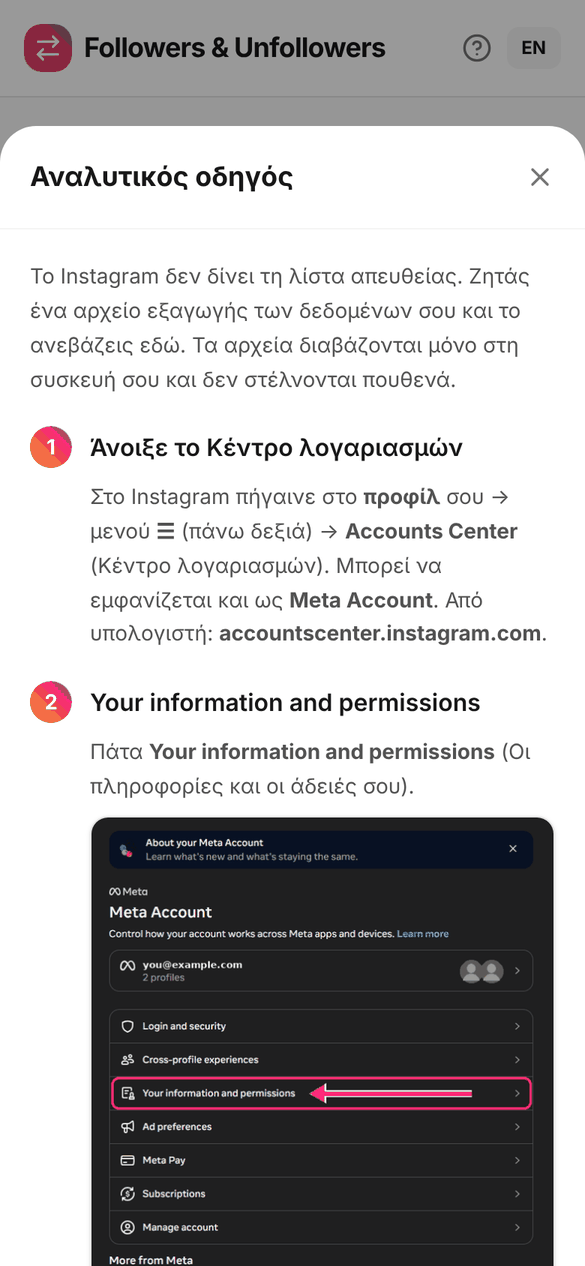
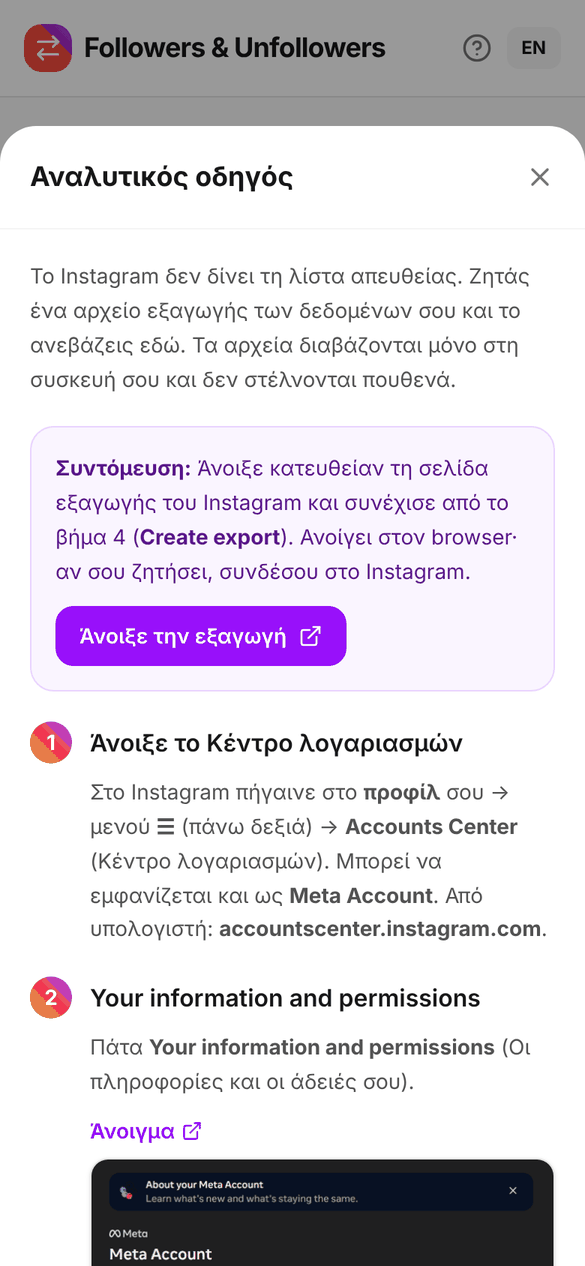
v1.5.0
- Direct links to Instagram's export page (home card, guide shortcut, per-step 'Open' links)
- README: shortcut link, refreshed screenshots

diff --git a/src/Guide.tsx b/src/Guide.tsx
@@ -1,6 +1,10 @@
 import { useEffect } from 'react';
 import { motion, AnimatePresence } from 'motion/react';
-import { X } from 'lucide-react';
+import { X, ExternalLink } from 'lucide-react';
+
+// Direct links into Instagram's Accounts Center (open in the browser; may ask to log in)
+export const IG_INFO_URL = 'https://accountscenter.instagram.com/info_and_permissions/';
+export const IG_EXPORT_URL = 'https://accountscenter.instagram.com/info_and_permissions/dyi/';
 
 type Language = 'el' | 'en';
 
@@ -9,13 +13,19 @@ interface GuideStep {
   body: string;
   /** Optional screenshot, path relative to the site root (e.g. 'guide/step-1.jpg') */
   image?: string;
+  /** Optional direct link that skips to this screen */
+  link?: string;
 }
 
-const content: Record<Language, { heading: string; intro: string; close: string; tip: string; steps: GuideStep[]; dataTitle: string; dataItems: string[] }> = {
+const content: Record<Language, { heading: string; intro: string; close: string; tip: string; steps: GuideStep[]; dataTitle: string; dataItems: string[]; shortcutTitle: string; shortcutBody: string; shortcutButton: string; openLink: string }> = {
   el: {
     heading: 'Αναλυτικός οδηγός',
     intro: 'Το Instagram δεν δίνει τη λίστα απευθείας. Ζητάς ένα αρχείο εξαγωγής των δεδομένων σου και το ανεβάζεις εδώ. Τα αρχεία διαβάζονται μόνο στη συσκευή σου και δεν στέλνονται πουθενά.',
     close: 'Κλείσιμο',
+    shortcutTitle: 'Συντόμευση',
+    shortcutBody: 'Άνοιξε κατευθείαν τη σελίδα εξαγωγής του Instagram και συνέχισε από το βήμα 4 (<b>Create export</b>). Ανοίγει στον browser· αν σου ζητήσει, συνδέσου στο Instagram.',
+    shortcutButton: 'Άνοιξε την εξαγωγή',
+    openLink: 'Άνοιγμα',
     tip: 'Οι εικόνες είναι από το Instagram στα αγγλικά. Τα ονόματα των μενού μπορεί να διαφέρουν λίγο ανάλογα με την έκδοση και τη γλώσσα.',
     dataTitle: 'Πού αποθηκεύονται τα δεδομένα',
     dataItems: [
@@ -33,11 +43,13 @@ const content: Record<Language, { heading: string; intro: string; close: string;
         title: 'Your information and permissions',
         body: 'Πάτα <b>Your information and permissions</b> (Οι πληροφορίες και οι άδειές σου).',
         image: 'guide/step-1.png',
+        link: IG_INFO_URL,
       },
       {
         title: 'Export your information',
         body: 'Πάτα <b>Export your information</b> (Εξαγωγή των πληροφοριών σου).',
         image: 'guide/step-2.png',
+        link: IG_EXPORT_URL,
       },
       {
         title: 'Create export',
@@ -63,6 +75,7 @@ const content: Record<Language, { heading: string; intro: string; close: string;
         title: 'Περίμενε και κατέβασε',
         body: 'Η εξαγωγή μπορεί να πάρει από λίγα λεπτά έως αρκετές ώρες. Όταν είναι έτοιμη θα λάβεις ειδοποίηση. Γύρνα στο <b>Export your information</b> και κατέβασε το αρχείο <b>.zip</b>. Έχεις <b>4 μέρες</b> για να το κατεβάσεις.',
         image: 'guide/step-7.png',
+        link: IG_EXPORT_URL,
       },
       {
         title: 'Ανέβασέ το εδώ',
@@ -78,6 +91,10 @@ const content: Record<Language, { heading: string; intro: string; close: string;
     heading: 'Step-by-step guide',
     intro: "Instagram doesn't show this list directly. You request an export of your data and upload it here. Files are read only on your device and are never sent anywhere.",
     close: 'Close',
+    shortcutTitle: 'Shortcut',
+    shortcutBody: 'Open Instagram\'s export page directly and continue from step 4 (<b>Create export</b>). It opens in your browser; log in to Instagram if asked.',
+    shortcutButton: 'Open the export page',
+    openLink: 'Open',
     tip: 'Screenshots are from Instagram in English. Menu names may differ slightly depending on the version and language.',
     dataTitle: 'Where your data is kept',
     dataItems: [
@@ -95,11 +112,13 @@ const content: Record<Language, { heading: string; intro: string; close: string;
         title: 'Your information and permissions',
         body: 'Tap <b>Your information and permissions</b>.',
         image: 'guide/step-1.png',
+        link: IG_INFO_URL,
       },
       {
         title: 'Export your information',
         body: 'Tap <b>Export your information</b>.',
         image: 'guide/step-2.png',
+        link: IG_EXPORT_URL,
       },
       {
         title: 'Create export',
@@ -125,6 +144,7 @@ const content: Record<Language, { heading: string; intro: string; close: string;
         title: 'Wait and download',
         body: 'The export can take from a few minutes to several hours. You will get a notification when it is ready. Go back to <b>Export your information</b> and download the <b>.zip</b> file. You have <b>4 days</b> to download it.',
         image: 'guide/step-7.png',
+        link: IG_EXPORT_URL,
       },
       {
         title: 'Upload it here',
@@ -188,6 +208,21 @@ export default function Guide({ open, onClose, language }: { open: boolean; onCl
             <div className="overflow-y-auto px-5 py-5 space-y-5">
               <p className="text-sm text-neutral-600 leading-relaxed">{c.intro}</p>
 
+              <div className="rounded-2xl border border-purple-200 bg-purple-50 p-4 space-y-3">
+                <p className="text-sm text-purple-900 leading-relaxed">
+                  <b>{c.shortcutTitle}:</b> <span dangerouslySetInnerHTML={{ __html: c.shortcutBody }} />
+                </p>
+                <a
+                  href={IG_EXPORT_URL}
+                  target="_blank"
+                  rel="noopener noreferrer"
+                  className="inline-flex items-center gap-2 rounded-xl bg-purple-600 px-4 py-2.5 text-sm font-semibold text-white hover:bg-purple-700 transition-colors"
+                >
+                  {c.shortcutButton}
+                  <ExternalLink className="w-4 h-4" />
+                </a>
+              </div>
+
               <ol className="space-y-5">
                 {c.steps.map((step, i) => (
                   <li key={i} className="flex gap-3">
@@ -200,6 +235,17 @@ export default function Guide({ open, onClose, language }: { open: boolean; onCl
                         className="text-sm text-neutral-600 leading-relaxed"
                         dangerouslySetInnerHTML={{ __html: step.body }}
                       />
+                      {step.link && (
+                        <a
+                          href={step.link}
+                          target="_blank"
+                          rel="noopener noreferrer"
+                          className="inline-flex items-center gap-1 text-sm font-semibold text-purple-600 hover:text-purple-800"
+                        >
+                          {c.openLink}
+                          <ExternalLink className="w-3.5 h-3.5" />
+                        </a>
+                      )}
                       {step.image && (
                         <img
                           src={`${import.meta.env.BASE_URL}${step.image}`}

diff --git a/src/App.tsx b/src/App.tsx
@@ -14,7 +14,7 @@ import {
   SlidersHorizontal,
   ChevronRight
 } from 'lucide-react';
-import Guide from './Guide';
+import Guide, { IG_EXPORT_URL } from './Guide';
 import ConfirmDialog, { ActionLink } from './ConfirmDialog';
 import { unzip } from 'fflate';
 import { recordFollowers, clearHistory, accountFromZipName, dateFromZipName, avatarColors, toSnapshot, setPair, sameUsers, makeBackup, parseBackup, Snapshot } from './history';
@@ -43,6 +43,7 @@ const translations = {
     howItWorks: 'Πώς λειτουργεί;',
     instructions: 'Κατέβασε από το Instagram την εξαγωγή με τους <b>followers</b> και <b>following</b> σου (μορφή <b>JSON</b>, εύρος <b>All time</b>) και ανέβασε εδώ το <b>.zip</b> όπως είναι. Η εφαρμογή βρίσκει μόνη της τα αρχεία.',
     openGuide: 'Δες αναλυτικά τα βήματα',
+    openExport: 'Άνοιξε την εξαγωγή στο Instagram',
     guide: 'Οδηγός',
     followers: 'Followers',
     following: 'Following',
@@ -107,6 +108,7 @@ const translations = {
     howItWorks: 'How it works?',
     instructions: 'Download the export of your <b>followers</b> and <b>following</b> from Instagram (format <b>JSON</b>, range <b>All time</b>) and upload the <b>.zip</b> here as is. The app finds the files on its own.',
     openGuide: 'See the steps in detail',
+    openExport: 'Open the export page on Instagram',
     guide: 'Guide',
     followers: 'Followers',
     following: 'Following',
@@ -694,13 +696,24 @@ export default function App() {
                     className="text-sm text-blue-800 leading-relaxed"
                     dangerouslySetInnerHTML={{ __html: t.instructions }}
                   />
-                  <button
-                    onClick={() => setGuideOpen(true)}
-                    className="mt-3 inline-flex items-center gap-1 text-sm font-semibold text-blue-700 hover:text-blue-900 transition-colors"
-                  >
-                    {t.openGuide}
-                    <ChevronRight className="w-4 h-4" />
-                  </button>
+                  <div className="mt-3 flex flex-wrap items-center gap-x-4 gap-y-2">
+                    <a
+                      href={IG_EXPORT_URL}
+                      target="_blank"
+                      rel="noopener noreferrer"
+                      className="inline-flex items-center gap-1.5 rounded-lg bg-blue-600 px-3 py-2 text-sm font-semibold text-white hover:bg-blue-700 transition-colors"
+                    >
+                      {t.openExport}
+                      <ExternalLink className="w-4 h-4" />
+                    </a>
+                    <button
+                      onClick={() => setGuideOpen(true)}
+                      className="inline-flex items-center gap-1 text-sm font-semibold text-blue-700 hover:text-blue-900 transition-colors"
+                    >
+                      {t.openGuide}
+                      <ChevronRight className="w-4 h-4" />
+                    </button>
+                  </div>
                 </div>
               </div>
             </motion.div>

diff --git a/README.md b/README.md
@@ -35,6 +35,8 @@
 
 ## Πώς παίρνεις τα αρχεία από το Instagram
 
+Συντόμευση: η σελίδα εξαγωγής του Instagram ανοίγει απευθείας από [εδώ](https://accountscenter.instagram.com/info_and_permissions/dyi/) (στον browser· αν ζητηθεί, συνδέσου). Μετά συνέχισε από το **Create export**.
+
 Μέσα στην εφαρμογή υπάρχει **αναλυτικός οδηγός** με όλα τα βήματα (κουμπί **?** πάνω δεξιά ή «Δες αναλυτικά τα βήματα»). Συνοπτικά:
 
 1. Instagram → **προφίλ** → **☰** → **Κέντρο λογαριασμών** → **Οι πληροφορίες και οι άδειές σου** → **Εξαγωγή των πληροφοριών σου**.
